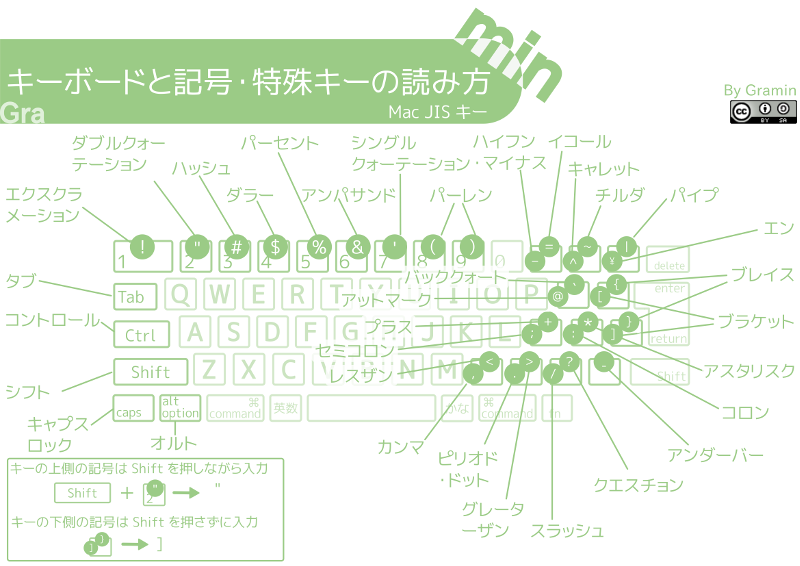
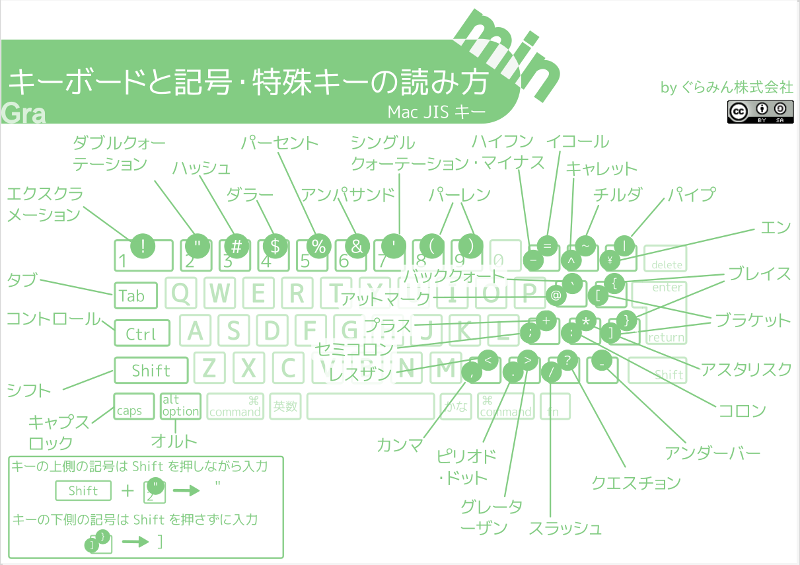
Gramin → ぐらみん

diff --git a/site/content/portfolio/work6.md b/site/content/portfolio/work6.md
@@ -8,7 +8,7 @@ title = "Java の抽象クラス・インタフェース・無名クラスを理
 
 weight = 1
 +++
-キッズプログラミング教室 Gramin で<a href='https://gramin.jp/class/'>スマートフォンアプリ開発クラス（2017年3月閉講）</a>向けに作成した資料です。
+キッズプログラミング教室ぐらみんで<a href='https://gramin.jp/class/'>スマートフォンアプリ開発クラス（2017年3月閉講）</a>向けに作成した資料です。
 
 Java で抽象クラス・インタフェースの理解に苦しむ方を対象にしています。身近な例（哺乳類・爬虫類）を使って抽象クラス・インタフェースの使い道を簡単に説明し、無名クラスについても簡単に触れています。
 <!--more-->

diff --git a/site/content/portfolio/work13.md b/site/content/portfolio/work13.md
@@ -8,7 +8,7 @@ title = "まちがいさがしゲーム"
 
 weight = 1
 +++
-キッズプログラミング教室 Gramin で講師（こうし）が小学校におじゃまして一緒（いっしょ）に Scratch ゲームを作った時に使った資料（しりょう）です。
+キッズプログラミング教室ぐらみんで講師（こうし）が小学校におじゃまして一緒（いっしょ）に Scratch ゲームを作った時に使った資料（しりょう）です。
 
 まちがいさがしゲームです。左の絵と右の絵のまちがっている部分をさがそう！
 まちがっている部分を右の絵の中でクリックしてね。まちがいを全部見つけたらゲームクリアだよ！

diff --git a/site/content/portfolio/work12.md b/site/content/portfolio/work12.md
@@ -8,7 +8,7 @@ title = "シューティングゲーム"
 
 weight = 1
 +++
-<a href='https://gramin.jp'>キッズプログラミング教室 Gramin</a> で講師（こうし）が小学校におじゃまして一緒（いっしょ）に Scratch ゲームを作った時に使った資料（しりょう）です。
+<a href='https://gramin.jp'>キッズプログラミング教室ぐらみん</a> で講師（こうし）が小学校におじゃまして一緒（いっしょ）に Scratch ゲームを作った時に使った資料（しりょう）です。
 
 ちびっこモンスターにボールを当ててやっつけていくゲームです。30秒以内に何匹（なんびき）たおせるかな？
 <!--more-->

diff --git a/site/content/portfolio/work3.md b/site/content/portfolio/work3.md
@@ -8,7 +8,7 @@ title = "キーボード入力ローマ字表"
 
 weight = 1
 +++
-<a href='https://gramin.jp'>Gramin</a> で使っているキーボード入力をする為のローマ字表です。よく使う文字は太字にして全てキーボードと同じように大文字にしています。
+<a href='https://gramin.jp'>ぐらみん</a> で使っているキーボード入力をする為のローマ字表です。よく使う文字は太字にして全てキーボードと同じように大文字にしています。
 <!--more-->
 
 <img alt='キーボード入力用ローマ字表' src='../../img/portfolio/キーボード入力用ローマ字表.png' style='width:100%;'/>

diff --git a/site/content/portfolio/work10.md b/site/content/portfolio/work10.md
@@ -8,7 +8,7 @@ title = "ジャンプするゲームの作り方"
 
 weight = 1
 +++
-<a href='https://gramin.jp'>キッズプログラミング教室 Gramin</a> で講師（こうし）が小学校におじゃまして一緒（いっしょ）に Scratch ゲームを作った時に使った資料（しりょう）です。
+<a href='https://gramin.jp'>キッズプログラミング教室ぐらみん</a> で講師（こうし）が小学校におじゃまして一緒（いっしょ）に Scratch ゲームを作った時に使った資料（しりょう）です。
 
 コウモリがジャンプするシンプルだけど奥（おく）が深（ふか）いゲームです。
 <!--more-->

diff --git a/site/content/portfolio/work11.md b/site/content/portfolio/work11.md
@@ -8,7 +8,7 @@ title = "迷路（めいろ）を進むゲーム"
 
 weight = 1
 +++
-キッズプログラミング教室 Gramin で講師（こうし）が小学校におじゃまして一緒（いっしょ）に Scratch ゲームを作った時に使った資料（しりょう）です。
+キッズプログラミング教室ぐらみんで講師（こうし）が小学校におじゃまして一緒（いっしょ）に Scratch ゲームを作った時に使った資料（しりょう）です。
 
 主人公（しゅじんこう）が上下左右のキーを使って迷路を進みながら黄色いマークへたどりつくゲームです。
 <!--more-->
